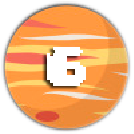
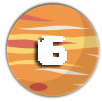
Ajustes no LevelSelector e adição de + waves legais =)

diff --git a/Game2d/src/unb/cic/poo/game2d/LevelSelector.java b/Game2d/src/unb/cic/poo/game2d/LevelSelector.java
@@ -18,7 +18,7 @@ public class LevelSelector extends Entity{
     private final int ROWS = 2;
 
     /* Level selector tile properties */
-    private final int TILE_DIMENSION = 150;
+    private final int TILE_DIMENSION = 160;
     private final int TILE_PADDING = 60;
 
     private final Scene mScene;
@@ -35,6 +35,8 @@ public class LevelSelector extends Entity{
     /* Initial x/y coordinates used for tile positioning */
     private final float mInitialX;
     private final float mInitialY;
+    private final float deltaX = 80;
+    private final float deltaY = 380;
 
     /*
      * Variable which defines whether the LevelSelector is hidden or visible
@@ -74,11 +76,11 @@ public class LevelSelector extends Entity{
          * center of the Scene
          */
         final float halfLevelSelectorWidth = ((TILE_DIMENSION * COLUMNS) + TILE_PADDING    * (COLUMNS - 1)) * 0.5f; 
-        this.mInitialX = (this.mCameraWidth * 0.5f) - halfLevelSelectorWidth -80;
+        this.mInitialX = (this.mCameraWidth * 0.5f) - halfLevelSelectorWidth - deltaX;
         
         /* Same math as above applies to the Y coordinate */ 
         final float halfLevelSelectorHeight = ((TILE_DIMENSION * ROWS) + TILE_PADDING    * (ROWS - 1)) * 0.5f; 
-        this.mInitialY = (this.mCameraHeight * 0.5f) + halfLevelSelectorHeight - 300;
+        this.mInitialY = (this.mCameraHeight * 0.5f) + halfLevelSelectorHeight - deltaY;
 
     }
 
@@ -200,7 +202,7 @@ public class LevelSelector extends Entity{
         public LevelTile(float pX, float pY, boolean pIsLocked,
                 int pLevelNumber, ITextureRegion pTextureRegion, ITiledTextureRegion pStar) {
         	
-            super(pX, pY, LevelSelector.this.TILE_DIMENSION,
+            super(pX, pY, LevelSelector.this.TILE_DIMENSION+8,
                     LevelSelector.this.TILE_DIMENSION, pTextureRegion,
                     LevelSelector.this.mEngine.getVertexBufferObjectManager());
         	//super(pX, pY, pTextureRegion, LevelSelector.this.mEngine.getVertexBufferObjectManager());
@@ -241,13 +243,13 @@ public class LevelSelector extends Entity{
             }
 
             /* Setup the text position to be placed in the center-bottom of the tile */
-            final float starPositionX = LevelSelector.this.TILE_DIMENSION/6;
+            final float starPositionX = LevelSelector.this.TILE_DIMENSION/6+5;
             final float starPositionY = LevelSelector.this.TILE_DIMENSION - 15;
           
             /* Attach the mStar to the LevelTile */
             StarSprite = new Sprite(0, 0, mStar, LevelSelector.this.mEngine.getVertexBufferObjectManager());
             this.attachChild(StarSprite);
-            StarSprite.setPosition(starPositionX, starPositionY);
+            StarSprite.setPosition(starPositionX, starPositionY+15);
         }
 
         @Override

diff --git a/Game2d/src/unb/cic/poo/game2d/waves/Wave3.java b/Game2d/src/unb/cic/poo/game2d/waves/Wave3.java
@@ -1,0 +1,24 @@
+package unb.cic.poo.game2d.waves;
+
+import java.util.ArrayList;
+
+import unb.cic.poo.game2d.enemies.*;
+import unb.cic.poo.game2d.GameActivity;
+import unb.cic.poo.game2d.GameManager;
+import unb.cic.poo.game2d.waves.Wave;
+
+public class Wave3 extends Wave{
+	
+	/*Wave de ChasingEnemy*/
+	public Wave3(){
+		super();
+		this.enemies = new ArrayList<Enemy>();
+		this.enemies.add(new ChasingYEnemy(GameActivity.CAMERA_WIDTH+50, (float) (GameActivity.CAMERA_HEIGHT*0.2), GameActivity.CAMERA_WIDTH*0.9f, GameManager.getInstance().getPlayer().getSpeed()*0.2f));
+		this.enemies.add(new ChasingYEnemy(GameActivity.CAMERA_WIDTH+50, (float) (GameActivity.CAMERA_HEIGHT*0.2), GameActivity.CAMERA_WIDTH*0.9f, GameManager.getInstance().getPlayer().getSpeed()*0.18f));
+		this.enemies.add(new ChasingYEnemy(GameActivity.CAMERA_WIDTH+50, (float) (GameActivity.CAMERA_HEIGHT*0.2), GameActivity.CAMERA_WIDTH*0.9f, GameManager.getInstance().getPlayer().getSpeed()*0.16f));
+		this.enemies.add(new ChasingYEnemy(GameActivity.CAMERA_WIDTH+50, (float) (GameActivity.CAMERA_HEIGHT*0.2), GameActivity.CAMERA_WIDTH*0.9f, GameManager.getInstance().getPlayer().getSpeed()*0.14f));
+		this.enemies.add(new ChasingYEnemy(GameActivity.CAMERA_WIDTH+50, (float) (GameActivity.CAMERA_HEIGHT*0.2), GameActivity.CAMERA_WIDTH*0.9f, GameManager.getInstance().getPlayer().getSpeed()*0.12f));
+	}
+	
+
+}

diff --git a/Game2d/src/unb/cic/poo/game2d/waves/Wave2.java b/Game2d/src/unb/cic/poo/game2d/waves/Wave2.java
@@ -8,17 +8,14 @@ import unb.cic.poo.game2d.GameManager;
 import unb.cic.poo.game2d.waves.Wave;
 
 public class Wave2 extends Wave {
-
+	
+	/*Wave de FreezedShootingEnemy*/
 	public Wave2(){
 		super();
 		this.enemies = new ArrayList<Enemy>();
-		//this.enemies.add(new VerticalMovementEnemy(GameActivity.CAMERA_WIDTH, (float) (GameActivity.CAMERA_HEIGHT*0.5),  GameActivity.CAMERA_WIDTH*0.9f));
-		this.enemies.add(new CommonEnemy(GameActivity.CAMERA_WIDTH+200, (float) (GameActivity.CAMERA_HEIGHT*0.8)));
 		this.enemies.add(new FreezedShootingEnemy(GameActivity.CAMERA_WIDTH+200,(float) (GameActivity.CAMERA_HEIGHT*0.2), GameActivity.CAMERA_WIDTH*0.9f));
-		this.enemies.add(new ChasingYEnemy(GameActivity.CAMERA_WIDTH+50, (float) (GameActivity.CAMERA_HEIGHT*0.2), GameActivity.CAMERA_WIDTH*0.9f, GameManager.getInstance().getPlayer().getSpeed()*0.1f));
-
-
-		
+		this.enemies.add(new FreezedShootingEnemy(GameActivity.CAMERA_WIDTH+200,(float) (GameActivity.CAMERA_HEIGHT*0.5), GameActivity.CAMERA_WIDTH*0.9f));
+		this.enemies.add(new FreezedShootingEnemy(GameActivity.CAMERA_WIDTH+200,(float) (GameActivity.CAMERA_HEIGHT*0.8), GameActivity.CAMERA_WIDTH*0.9f));		
 	}
 }
 

diff --git a/Game2d/src/unb/cic/poo/game2d/waves/Wave1.java b/Game2d/src/unb/cic/poo/game2d/waves/Wave1.java
@@ -7,13 +7,14 @@ import unb.cic.poo.game2d.GameActivity;
 import unb.cic.poo.game2d.waves.Wave;
 
 public class Wave1 extends Wave {
-
+	
+	/*Wave de CommonEnemy*/
 	public Wave1(){
 		super();
 		this.enemies = new ArrayList<Enemy>();
 		this.enemies.add(new CommonEnemy(GameActivity.CAMERA_WIDTH, (float) (GameActivity.CAMERA_HEIGHT*0.5)));
 		this.enemies.add(new CommonEnemy(GameActivity.CAMERA_WIDTH+200, (float) (GameActivity.CAMERA_HEIGHT*0.8)));
-		this.enemies.add(new FreezedShootingEnemy(GameActivity.CAMERA_WIDTH+200,(float) (GameActivity.CAMERA_HEIGHT*0.2), GameActivity.CAMERA_WIDTH*0.9f));
-	
+		//this.enemies.add(new FreezedShootingEnemy(GameActivity.CAMERA_WIDTH+200,(float) (GameActivity.CAMERA_HEIGHT*0.2), GameActivity.CAMERA_WIDTH*0.9f));
+		this.enemies.add(new CommonEnemy(GameActivity.CAMERA_WIDTH+200, (float) (GameActivity.CAMERA_HEIGHT*0.2)));
 	}
 }

diff --git a/Game2d/src/unb/cic/poo/game2d/fases/Fase1.java b/Game2d/src/unb/cic/poo/game2d/fases/Fase1.java
@@ -1,11 +1,16 @@
 package unb.cic.poo.game2d.fases;
 
-import unb.cic.poo.game2d.waves.Wave1;
-import unb.cic.poo.game2d.waves.Wave2;
+import unb.cic.poo.game2d.waves.*;
 
 public class Fase1 extends Fase{
 	public Fase1(){
 		this.waves.add(new Wave1());
+		this.waves.add(new Wave1());
 		this.waves.add(new Wave2());
+		this.waves.add(new Wave2());
+		this.waves.add(new Wave3());
+		this.waves.add(new Wave3());
+
+		
 	}	
 }
